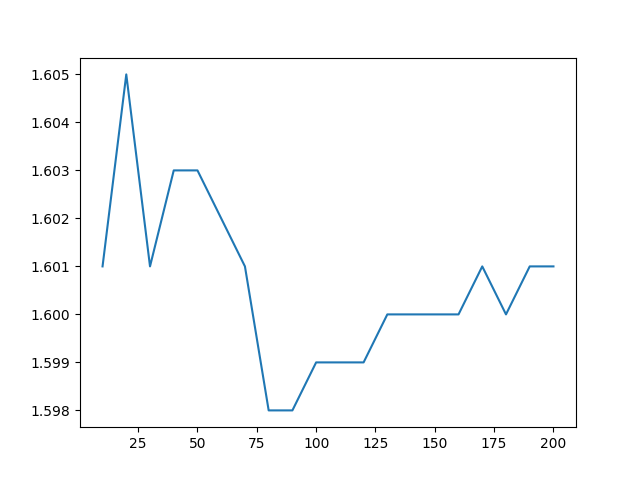
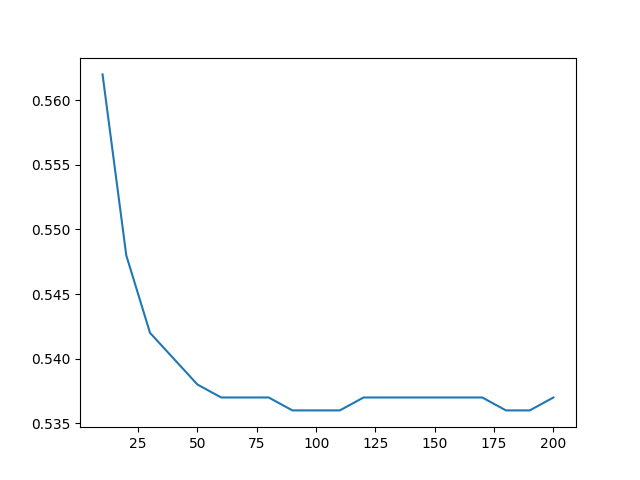
homework: set max_depth to dafault for questions 2 and 3

diff --git a/homework_6.py b/homework_6.py
@@ -75,7 +75,7 @@ dv, model = train_decision_tree(df_train, y_train, max_depth=1)
 
 print(export_text(model, feature_names=list(dv.get_feature_names_out())))
 
-dv, model = train_random_forest(df_train, y_train, n_estimators=10, max_depth=1)
+dv, model = train_random_forest(df_train, y_train, n_estimators=10, max_depth=None)
 
 y_pred = predict(df_val, dv, model)
 score = rmse(y_val, y_pred)
@@ -84,7 +84,7 @@ print(score)
 
 scores=[]
 for n in range(10, 201, 10):
-    dv, model = train_random_forest(df_train, y_train, n_estimators=n, max_depth=1)
+    dv, model = train_random_forest(df_train, y_train, n_estimators=n, max_depth=None)
     y_pred = predict(df_val, dv, model)
     score = rmse(y_val, y_pred)
     scores.append((n,round(score,3)))
@@ -96,6 +96,7 @@ plt.close()
 
 mean_rmse = []
 
+"""
 for d in [10, 15, 20, 25]:
     scores = []
     for n in range(10, 201, 10):
@@ -110,6 +111,7 @@ df_scores = pd.DataFrame(mean_rmse, columns=['max_depth', 'mean_rmse'])
 plt.plot(df_scores.max_depth, df_scores.mean_rmse)
 plt.savefig("random_forest_max_depth.png")
 plt.close()
+"""
 ## Feature importance
 
 dv, model = train_random_forest(df_train, y_train, n_estimators=10, max_depth=20)
